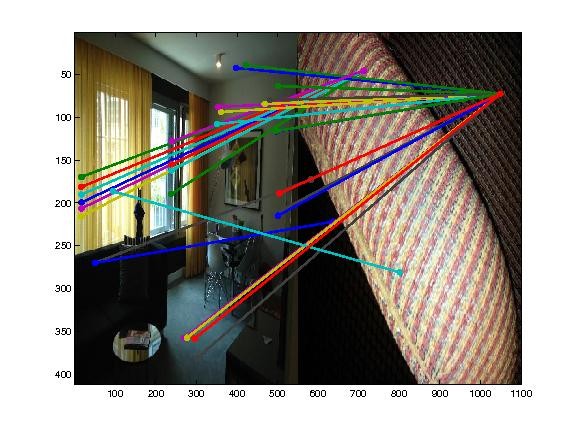
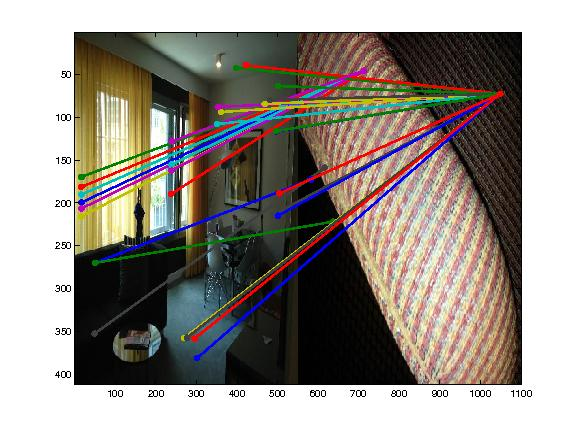
params expt

diff --git a/match.m b/match.m
@@ -10,8 +10,10 @@ matches = vl_ubcmatch(d1, d2);
 visualizeMatching(I, J, f1, f2, matches, 'save', 'raw_matches.jpg');
 matchedPoints1 = f1(1 : 2, matches(1, :))';
 matchedPoints2 = f2(1 : 2, matches(2, :))';
-[~, inliersIndex] = estimateFundamentalMatrix(matchedPoints1, ...
-        matchedPoints2, 'Method', 'RANSAC');
+[F, inliersIndex, status] = estimateFundamentalMatrix(matchedPoints1, ...
+        matchedPoints2, 'Method', 'RANSAC', 'InlierPercentage', 0.1, ...
+        'NumTrials', 2000, 'DistanceThreshold', 0.001, 'Confidence', 99.99);
+fprintf('Rank of computed F = %d, status = %d\n', rank(F), status);
 matches = matches(:, inliersIndex == 1);
 visualizeMatching(I, J, f1, f2, matches, 'save', 'final_matches.jpg');
 

diff --git a/README.md b/README.md
@@ -6,3 +6,9 @@ To run
 ```matlab
 >> match
 ```
+
+Results
+-------
+Are stored in the directory itself. `raw_matches.jpg` shows the initial 
+matches, and `final_matches.jpg` is the filtered matches.
+
